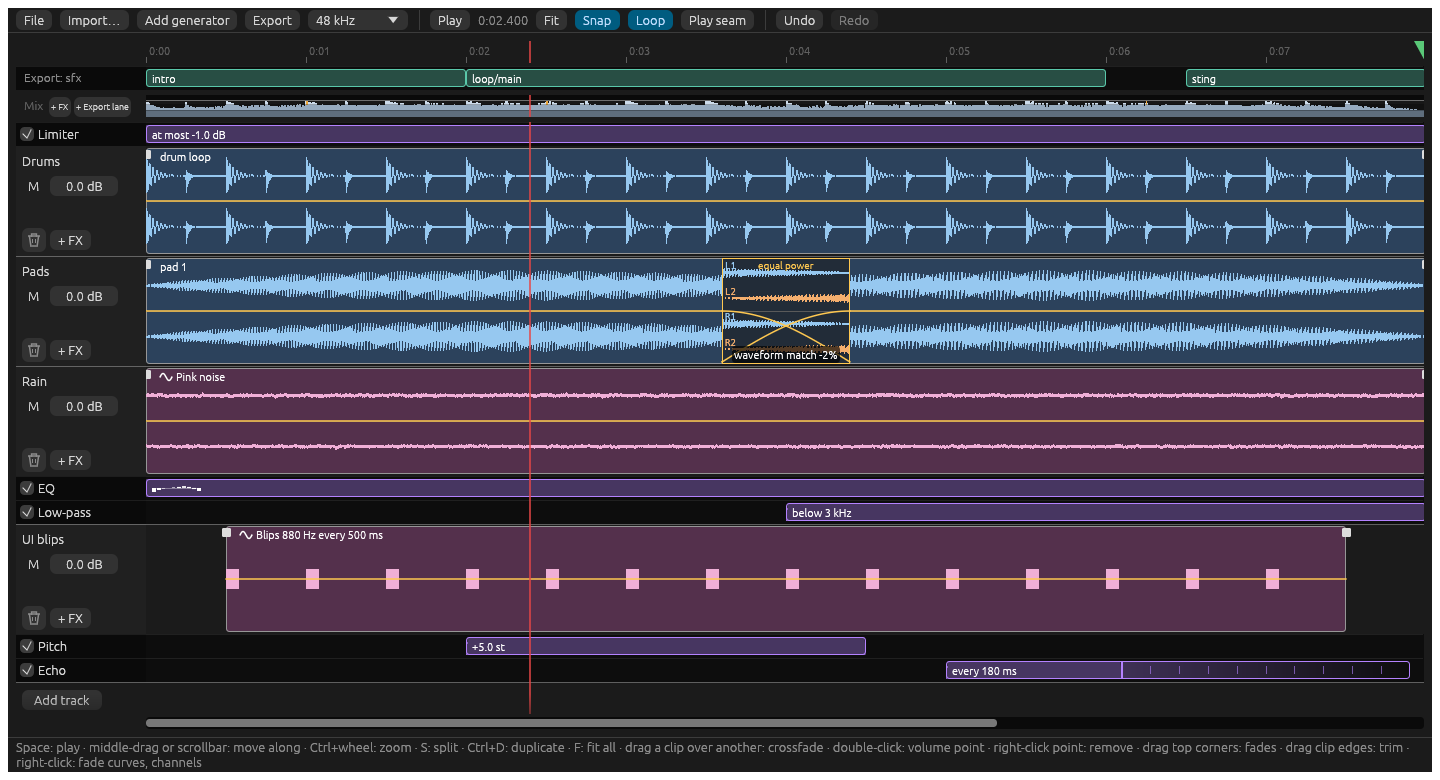
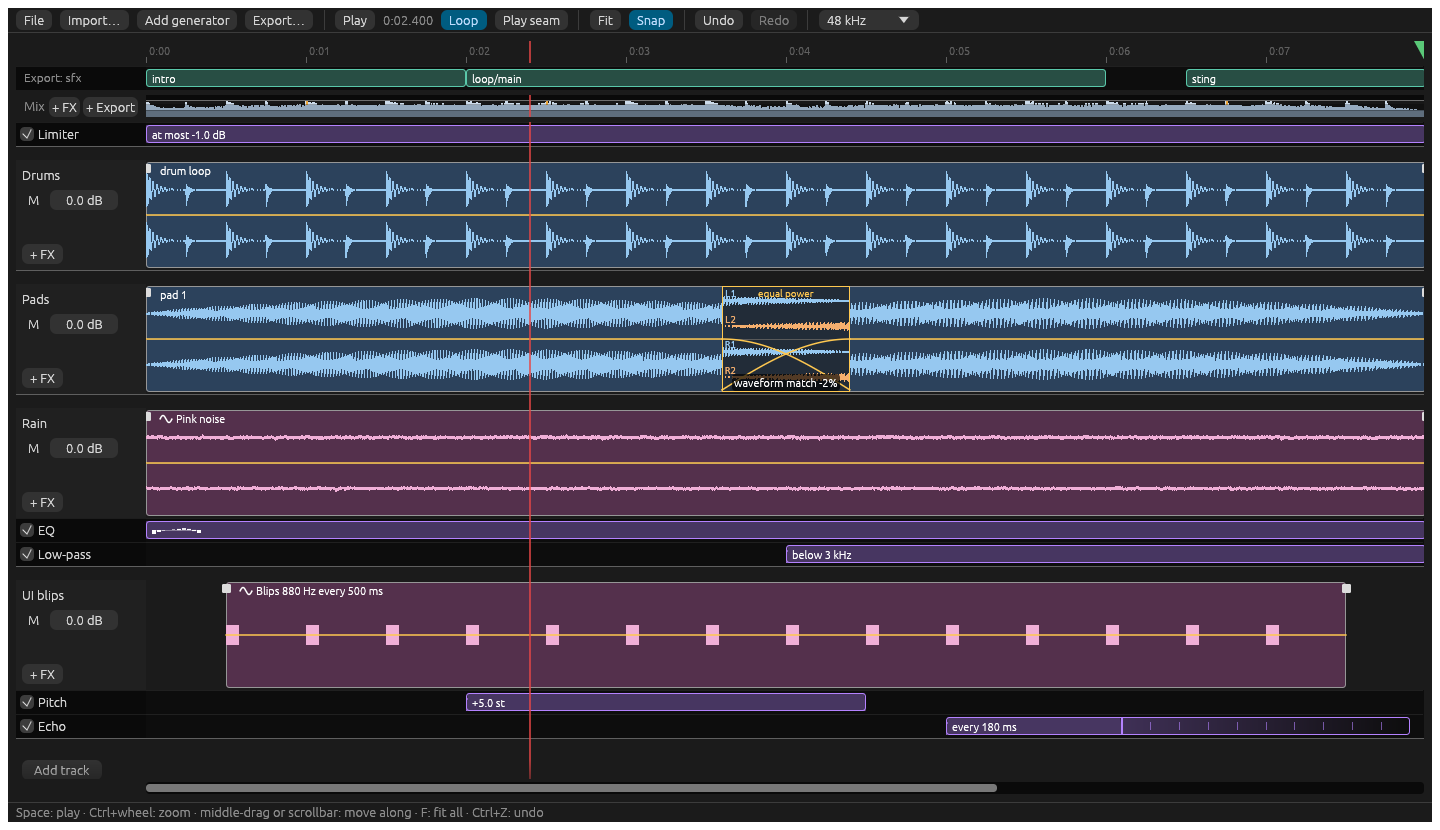
The gap between tracks is 14 pixels instead of 10, and the README screenshot shows the window after the cleanup: lanes set apart by track, the grouped toolbar, the Mix row buttons and the status line hints

diff --git a/apps/refrain/src/ui_tests.rs b/apps/refrain/src/ui_tests.rs
@@ -915,16 +915,16 @@ fn effect_ranges_are_edited_with_the_mouse() {
         lanes.flat_map(|l| l.ranges.iter().map(|r| (r.start, r.end))).collect()
     };
 
-    // The mix lane is at y 108, above the track; the track lane at y 252; x = 146 + frame / 50.
+    // The mix lane is at y 108, above the track; the track lane at y 258; x = 146 + frame / 50.
     drag(&mut h, egui::pos2(226.0, 108.0), egui::pos2(466.0, 108.0));
     assert_eq!(ranges(&h), [(8000, 32000), (4000, 16000)]);
-    drag(&mut h, egui::pos2(520.0, 252.0), egui::pos2(570.0, 252.0));
+    drag(&mut h, egui::pos2(520.0, 258.0), egui::pos2(570.0, 258.0));
     assert_eq!(ranges(&h), [(10_500, 34_500), (4000, 16000)]);
-    drag(&mut h, egui::pos2(836.0, 252.0), egui::pos2(806.0, 252.0));
+    drag(&mut h, egui::pos2(836.0, 258.0), egui::pos2(806.0, 258.0));
     assert_eq!(ranges(&h), [(10_500, 33_000), (4000, 16000)]);
     save(&mut h, "effect_lanes");
 
-    click(&mut h, 40.0, 252.0);
+    click(&mut h, 40.0, 258.0);
     assert!(!h.state().session.project().tracks[0].effects[0].enabled);
     click(&mut h, 320.0, 108.0);
     h.key_press(egui::Key::Delete);

diff --git a/apps/refrain/src/lanes.rs b/apps/refrain/src/lanes.rs
@@ -8,7 +8,7 @@ use crate::{Editor, HANDLE, HEADER_W};
 
 pub(crate) const LANE_H: f32 = 24.0;
 /// Space after a track's lanes and after the mix's lanes, so a lane is seen to belong to the track above it.
-pub(crate) const GAP: f32 = 10.0;
+pub(crate) const GAP: f32 = 14.0;
 const EFFECT: Color32 = Color32::from_rgb(180, 130, 255);
 /// A range narrower than this on screen, such as a click repair, is drawn this wide so it can be seen and
 /// grabbed. It can only be moved; zooming in brings its edges back.
